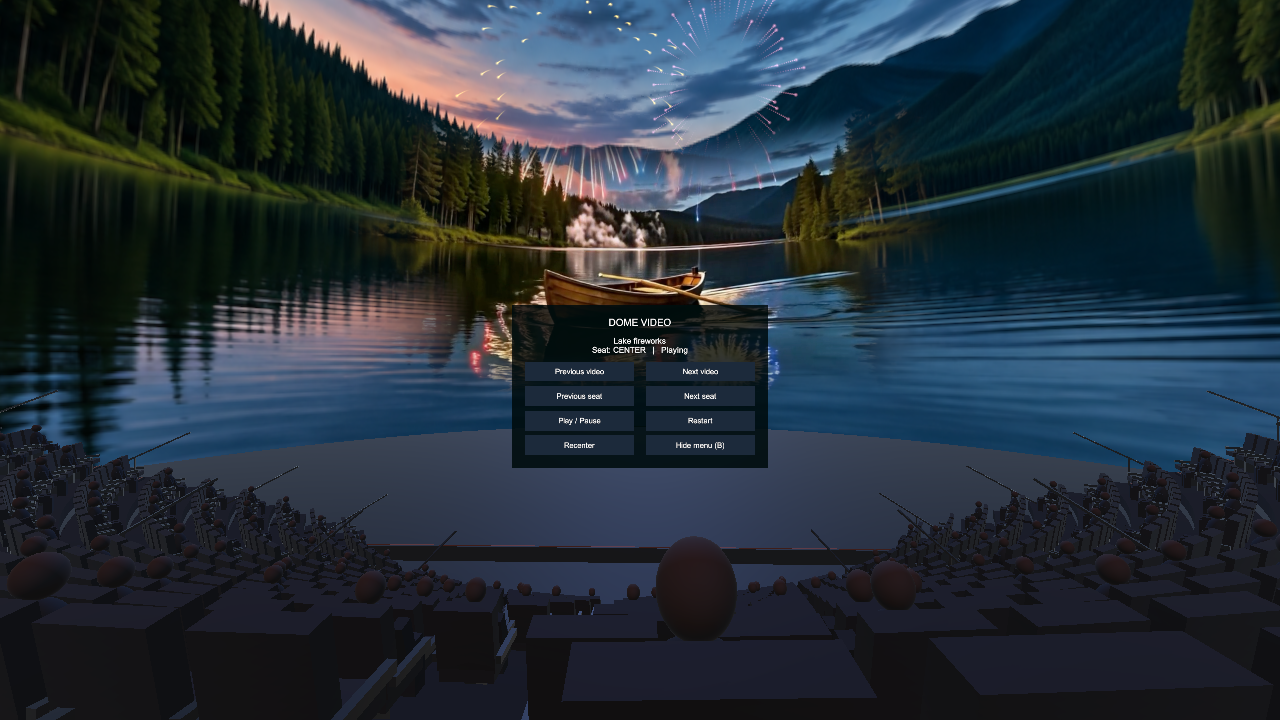
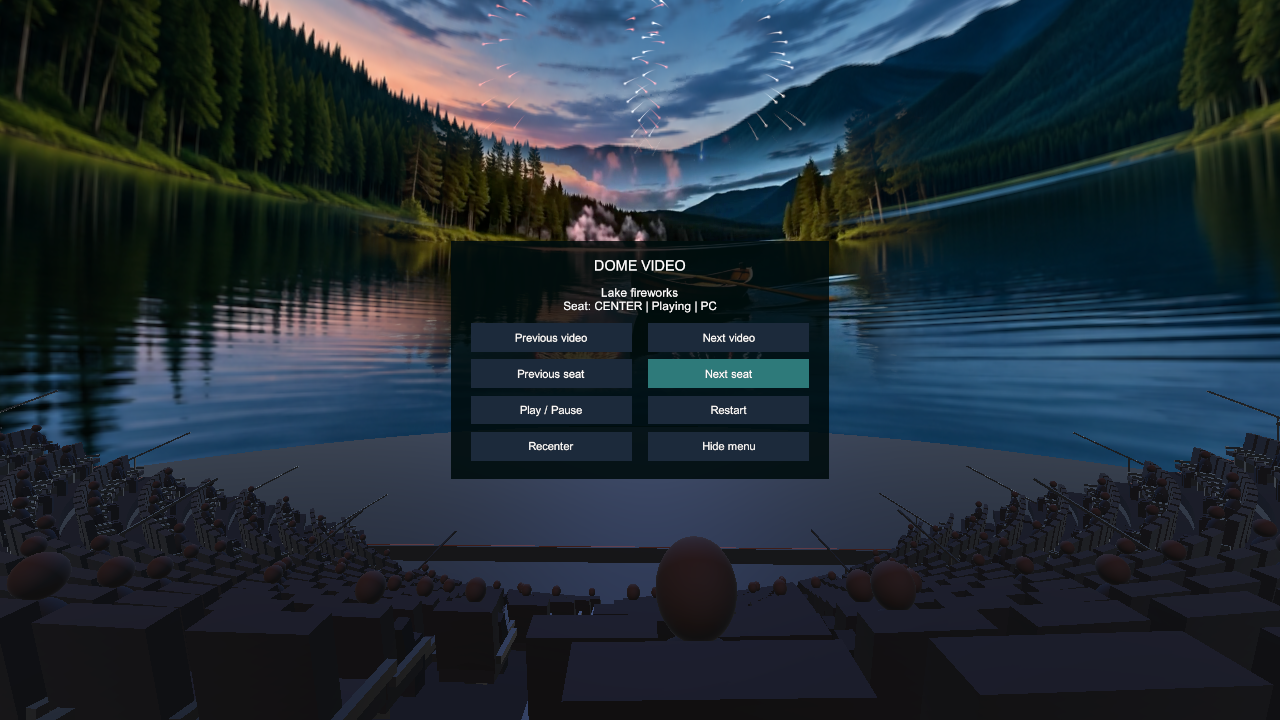
Support mouse and keyboard viewing in the Quest dome scene

diff --git a/Assets/Scripts/DomeQuestViewer.cs b/Assets/Scripts/DomeQuestViewer.cs
@@ -16,7 +16,10 @@ public class DomeQuestViewer : MonoBehaviour
     public Shader pointerShader;
     public int seat;
     Transform panel; Text status; LineRenderer laser; Material laserMaterial;
-    readonly List<XRInputSubsystem> subsystems=new List<XRInputSubsystem>();
+    readonly List<XRDisplaySubsystem> displays=new List<XRDisplaySubsystem>();
+    TrackedPoseDriver poseDriver; float desktopYaw,desktopPitch; bool vrCentered;
+    public bool IsVR { get; private set; }
+    public bool DesktopInputEnabled => !IsVR;
     readonly Dictionary<Collider,Button> buttons=new Dictionary<Collider,Button>();
     bool triggerWasDown,menuWasDown,playWasDown,recenterWasDown;
     bool dwellClicked; float dwell,axisReady,reopenDwell; Button hover; Font font;
@@ -27,17 +30,40 @@ public class DomeQuestViewer : MonoBehaviour
         var desktop=FindAnyObjectByType<SphereTheaterView>();if(desktop!=null)desktop.enabled=false;
         library.showInterface=false;library.playback.showControls=false;
     }
-    IEnumerator Start()
+    void Start()
     {
-        BuildMenu();SelectSeat(0);ShowMenu(true);
-        // Do not continuously recenter: physical head movement must remain visible.
-        for(int i=0;i<600;i++)
-        {
-            var h=InputDevices.GetDeviceAtXRNode(XRNode.Head);
-            if(h.TryGetFeatureValue(CommonUsages.isTracked,out bool tracked)&&tracked)
-            {yield return null;SelectSeat(seat);break;}
-            yield return null;
-        }
+        poseDriver=head.GetComponent<TrackedPoseDriver>();
+        BuildMenu();ApplyInputMode(HasVRDisplay(),true);ShowMenu(true);
+    }
+    bool HasVRDisplay()
+    {
+        // A running display defines VR, not momentary tracking or controller loss.
+        if(!Application.isEditor && Application.platform==RuntimePlatform.Android)return true;
+        displays.Clear();SubsystemManager.GetSubsystems(displays);
+        foreach(var display in displays)if(display.running)return true;
+        return false;
+    }
+    void ApplyInputMode(bool vr,bool force=false)
+    {
+        if(!force&&IsVR==vr)return;
+        IsVR=vr;vrCentered=false;
+        if(poseDriver!=null)poseDriver.enabled=vr;
+        desktopYaw=desktopPitch=0;
+        head.transform.localPosition=Vector3.zero;head.transform.localRotation=Quaternion.identity;
+        panel.localScale=Vector3.one*(vr?.0017f:.0025f);
+        triggerWasDown=menuWasDown=playWasDown=recenterWasDown=false;
+        ClearHover();SelectSeat(seat);
+    }
+    void LateUpdate()
+    {
+        if(!IsVR||vrCentered||panel==null)return;
+        var h=InputDevices.GetDeviceAtXRNode(XRNode.Head);
+        if(h.TryGetFeatureValue(CommonUsages.isTracked,out bool tracked)&&tracked){SelectSeat(seat);vrCentered=true;}
+    }
+    void ClearHover()
+    {
+        if(hover!=null)hover.image.color=Normal;
+        hover=null;dwell=0;dwellClicked=false;reopenDwell=0;
     }
     public void SelectSeat(int index)
     {
@@ -45,22 +71,26 @@ public class DomeQuestViewer : MonoBehaviour
         seat=(index%seats.Length+seats.Length)%seats.Length;var anchor=seats[seat];if(anchor==null)return;
         // Keep the virtual floor level; only the tracked head may pitch or roll.
         transform.rotation=Quaternion.Euler(0,transform.eulerAngles.y,0);
+        if(!IsVR){desktopYaw=desktopPitch=0;head.transform.localPosition=Vector3.zero;head.transform.localRotation=Quaternion.identity;}
         float delta=Mathf.DeltaAngle(head.transform.eulerAngles.y,anchor.eulerAngles.y);
         transform.RotateAround(head.transform.position,Vector3.up,delta);
         transform.position+=anchor.position-head.transform.position;
         if(MenuVisible)PlaceMenu();
     }
-    public void SelectClip(int delta){library.Select((library.current+delta+library.Count)%library.Count);}
+    public void SelectClip(int delta){if(library.Count==0)return;library.Select((library.current+delta+library.Count)%library.Count);}
     public void TogglePlayback(){if(library.playback.State==DomeVideoSetup.PlaybackState.Playing)library.playback.PausePlayback();else library.playback.ResumePlayback();}
-    public void ShowMenu(bool show){panel.gameObject.SetActive(show);if(show)PlaceMenu();hover=null;dwell=0;}
+    public void ShowMenu(bool show){panel.gameObject.SetActive(show);if(show)PlaceMenu();ClearHover();}
     void PlaceMenu()
     {
+        if(!IsVR){panel.position=head.transform.position+head.transform.forward*2f;panel.rotation=head.transform.rotation;return;}
         Vector3 f=Vector3.ProjectOnPlane(head.transform.forward,Vector3.up).normalized;if(f.sqrMagnitude<.1f)f=transform.forward;
         panel.position=head.transform.position+f*2f-Vector3.up*.12f;panel.rotation=Quaternion.LookRotation(f,Vector3.up);
     }
     void Update()
     {
         if(panel==null)return;
+        ApplyInputMode(HasVRDisplay());
+        if(!IsVR){laser.enabled=false;UpdateStatus();return;}
         var right=InputDevices.GetDeviceAtXRNode(XRNode.RightHand);var left=InputDevices.GetDeviceAtXRNode(XRNode.LeftHand);
         right.TryGetFeatureValue(CommonUsages.secondaryButton,out bool menuDown);
         right.TryGetFeatureValue(CommonUsages.primaryButton,out bool playDown);
@@ -77,7 +107,7 @@ public class DomeQuestViewer : MonoBehaviour
         {pos=head.transform.parent.TransformPoint(p);rot=head.transform.parent.rotation*q;}
         if(MenuVisible)
         {
-            status.text=$"{library.presets[library.current].displayName}\nSeat: {(seatNames!=null&&seat<seatNames.Length?seatNames[seat]:seat.ToString())}   |   {library.playback.State}";
+            UpdateStatus();
             Ray ray=new Ray(pos,rot*Vector3.forward);Button hitButton=null;float distance=3;
             // Only menu colliders are considered; theater geometry cannot steal UI input.
             foreach(var pair in buttons)if(pair.Key.Raycast(ray,out RaycastHit hit,3)&&hit.distance<distance){distance=hit.distance;hitButton=pair.Value;}
@@ -98,6 +128,61 @@ public class DomeQuestViewer : MonoBehaviour
         }
         triggerWasDown=trigger;
     }
+    void UpdateStatus()
+    {
+        if(status==null)return;
+        string clip=library.Count>0?library.presets[library.current].displayName:"No video";
+        status.text=$"{clip}\nSeat: {(seatNames!=null&&seat<seatNames.Length?seatNames[seat]:seat.ToString())} | {library.playback.State} | {(IsVR?"VR":"PC")}";
+    }
+    void HandleDesktopNavigation(Event e)
+    {
+        if(IsVR)return;
+        // IMGUI events are scoped to the Game view, including Input-System-only projects.
+        if(e.type==EventType.KeyDown&&!e.alt&&!e.control&&!e.command)
+        {
+            bool handled=true;
+            switch(e.keyCode)
+            {
+                case KeyCode.Tab:ShowMenu(!MenuVisible);break;
+                case KeyCode.Escape:ShowMenu(false);break;
+                case KeyCode.Space:TogglePlayback();break;
+                case KeyCode.LeftArrow:SelectClip(-1);break;
+                case KeyCode.RightArrow:SelectClip(1);break;
+                case KeyCode.UpArrow:SelectSeat(seat+1);break;
+                case KeyCode.DownArrow:SelectSeat(seat-1);break;
+                case KeyCode.R:SelectSeat(seat);break;
+                default:handled=false;break;
+            }
+            if(handled)e.Use();
+        }
+        if(e.type==EventType.MouseDrag&&e.button==1)
+        {
+            desktopYaw+=e.delta.x*.16f;desktopPitch=Mathf.Clamp(desktopPitch+e.delta.y*.16f,-80,80);
+            head.transform.localRotation=Quaternion.Euler(desktopPitch,desktopYaw,0);e.Use();
+        }
+    }
+    void OnGUI()
+    {
+        if(panel==null||IsVR)return;
+        var e=Event.current;
+        HandleDesktopNavigation(e);
+        var toggle=new Rect(Screen.width-160,12,148,32);
+        if(GUI.Button(toggle,MenuVisible?"Hide menu [Tab]":"Show menu [Tab]"))ShowMenu(!MenuVisible);
+        GUI.Box(new Rect(12,Screen.height-34,Mathf.Min(760,Screen.width-24),26),"PC | Right drag: look  |  Click: select  |  Left/Right: video  |  Up/Down: seat  |  Space: pause  |  R: recenter");
+        if(!MenuVisible||toggle.Contains(e.mousePosition))return;
+        bool click=e.type==EventType.MouseDown&&e.button==0;
+        if(DesktopMenuInput(e.mousePosition,click)&&click)e.Use();
+    }
+    bool DesktopMenuInput(Vector2 mousePosition,bool click)
+    {
+        if(IsVR||!MenuVisible)return false;
+        Ray ray=head.ScreenPointToRay(new Vector3(mousePosition.x,Screen.height-mousePosition.y,0));
+        Button target=null;float distance=3;
+        foreach(var pair in buttons)if(pair.Key.Raycast(ray,out RaycastHit hit,3)&&hit.distance<distance){distance=hit.distance;target=pair.Value;}
+        if(hover!=target){ClearHover();hover=target;if(hover!=null)hover.image.color=new Color(.18f,.48f,.48f,1);}
+        if(click&&hover!=null){var clicked=hover;clicked.onClick.Invoke();return true;}
+        return false;
+    }
     static readonly Color Normal=new Color(.10f,.17f,.23f,1);
     void BuildMenu()
     {
@@ -112,7 +197,7 @@ public class DomeQuestViewer : MonoBehaviour
         AddButton("Previous video",new Vector2(-160,40),()=>SelectClip(-1));AddButton("Next video",new Vector2(160,40),()=>SelectClip(1));
         AddButton("Previous seat",new Vector2(-160,-25),()=>SelectSeat(seat-1));AddButton("Next seat",new Vector2(160,-25),()=>SelectSeat(seat+1));
         AddButton("Play / Pause",new Vector2(-160,-90),TogglePlayback);AddButton("Restart",new Vector2(160,-90),()=>library.playback.RestartPlayback());
-        AddButton("Recenter",new Vector2(-160,-155),()=>SelectSeat(seat));AddButton("Hide menu (B)",new Vector2(160,-155),()=>ShowMenu(false));
+        AddButton("Recenter",new Vector2(-160,-155),()=>SelectSeat(seat));AddButton("Hide menu",new Vector2(160,-155),()=>ShowMenu(false));
         var beam=new GameObject("Controller menu pointer");beam.transform.SetParent(transform,false);laser=beam.AddComponent<LineRenderer>();
         laserMaterial=new Material(pointerShader);laserMaterial.color=new Color(.3f,1,.8f);laserMaterial.SetColor("_BaseColor",new Color(.3f,1,.8f));
         laser.sharedMaterial=laserMaterial;laser.positionCount=2;laser.startWidth=.003f;laser.endWidth=.002f;laser.useWorldSpace=true;

diff --git a/Assets/Scripts/Editor/DomeQuestVerification.cs b/Assets/Scripts/Editor/DomeQuestVerification.cs
@@ -39,22 +39,38 @@ public static class DomeQuestVerification
             {
                 if(Vector3.Angle(rig.transform.up,Vector3.up)>.01f)throw new Exception("XR rig must keep the horizon level");
                 if(rig.head.GetComponent<TrackedPoseDriver>()==null)throw new Exception("Tracked camera missing");
+                var driver=rig.head.GetComponent<TrackedPoseDriver>();
+                if(rig.IsVR||driver.enabled)throw new Exception("No HMD: PC input must own the camera");
+                Call("ApplyInputMode",true,false);
+                if(!rig.IsVR||!driver.enabled)throw new Exception("VR transition must restore tracked camera");
+                var before=rig.head.transform.localRotation;
+                Call("HandleDesktopNavigation",new Event{type=EventType.MouseDrag,button=1,delta=new Vector2(80,20)});
+                if(Quaternion.Angle(before,rig.head.transform.localRotation)>.01f)throw new Exception("Desktop input changed VR head pose");
+                Call("ApplyInputMode",false,false);
+                Call("HandleDesktopNavigation",new Event{type=EventType.MouseDrag,button=1,delta=new Vector2(80,20)});
+                if(Quaternion.Angle(Quaternion.identity,rig.head.transform.localRotation)<1)throw new Exception("PC look failed");
+                Call("HandleDesktopNavigation",new Event{type=EventType.KeyDown,keyCode=KeyCode.R});
+                if(Quaternion.Angle(Quaternion.identity,rig.head.transform.localRotation)>.01f)throw new Exception("PC recenter failed");
                 var buttons=rig.GetComponentsInChildren<Button>();if(buttons.Length!=8)throw new Exception("World menu button count");
-                buttons.First(b=>b.name=="Next seat").onClick.Invoke();if(rig.seat!=1)throw new Exception("Seat action failed");
-                buttons.First(b=>b.name=="Play / Pause").onClick.Invoke();if(playback.State!=DomeVideoSetup.PlaybackState.Paused)throw new Exception("Pause failed");
+                Physics.SyncTransforms();
+                var point=rig.head.WorldToScreenPoint(buttons.First(b=>b.name=="Next seat").transform.position);
+                Call("DesktopMenuInput",new Vector2(point.x,Screen.height-point.y),true);if(rig.seat!=1)throw new Exception("Seat action failed");
+                Call("HandleDesktopNavigation",new Event{type=EventType.KeyDown,keyCode=KeyCode.Space});if(playback.State!=DomeVideoSetup.PlaybackState.Paused)throw new Exception("Pause failed");
                 rig.SelectSeat(0);Capture();rig.TogglePlayback();if(playback.State!=DomeVideoSetup.PlaybackState.Playing)throw new Exception("Resume failed");
-                rig.SelectClip(1);phase=2;
+                Call("HandleDesktopNavigation",new Event{type=EventType.KeyDown,keyCode=KeyCode.RightArrow});phase=2;
             }
             else if(phase==2&&playback.State==DomeVideoSetup.PlaybackState.Playing&&playback.MainTime>.5)
             {
                 if(rig.library.current!=1)throw new Exception("Clip action failed");
                 rig.ShowMenu(false);if(rig.MenuVisible)throw new Exception("Hide menu failed");rig.ShowMenu(true);
-                File.WriteAllText("/tmp/dome-quest-verification.txt","PASS: tracked camera, 8 world menu buttons, seat change, video switch, pause/resume, hide/show, desktop rendering.\nHeadset tracking, controller input, stereo and Android video decoding require physical Quest 3 testing.");
+                File.WriteAllText("/tmp/dome-quest-verification.txt","PASS: automatic desktop mode without HMD; simulated VR/PC transitions and camera ownership; right-drag look, R recenter, mouse hit-test seat selection, keyboard video switch and pause; 8 menu buttons, playback and rendering.\nHeadset tracking, controller input, stereo and Android video decoding require physical Quest 3 testing.");
                 Finish();
             }
         }
         catch(Exception e){File.WriteAllText("/tmp/dome-quest-verification.txt","FAIL: "+e);Finish();}
     }
+    static object Call(string name,params object[] args)
+    {return typeof(DomeQuestViewer).GetMethod(name,System.Reflection.BindingFlags.Instance|System.Reflection.BindingFlags.NonPublic).Invoke(rig,args);}
     static void Capture()
     {
         var rt=new RenderTexture(1280,720,24);var prior=rig.head.targetTexture;var active=RenderTexture.active;
